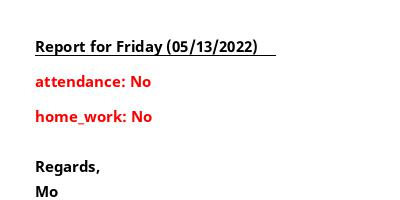
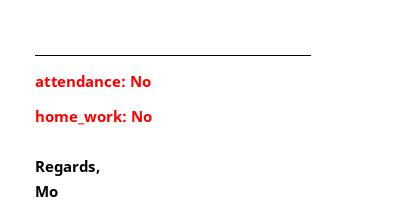
add firt name to reports2

Changed region(s): [[0.09, 0.18, 0.66, 0.27], [0.69, 0.27, 0.78, 0.3]]

diff --git a/app/views.py b/app/views.py
@@ -393,9 +393,13 @@ def view_memos():
                 for key,content in all_students_reports_to_send.items():
                     if content.get('send_report','') == 'send':
                         memos,not_memos = {},{}
+                        student = dict(AppDBUtil.getStudentsByEmails(students_emails=[key])[0])
+
                         report_date = content.get('report_date','')
                         report_day = datetime.datetime.strptime(report_date, "%m/%d/%Y").strftime('%A')
-                        memos.update({'title':"Report for {} ({})".format(report_day, report_date)})
+
+                        memos.update({'title': "{}'s Report for {} ({})".format(student['student_first_name'],report_day, report_date)})
+                        not_memos.update({'title': "{}'s Report for {} ({})".format(student['student_first_name'], report_day, report_date)})
                         for k,v in content.items():
                             if k.startswith('memo_1'):
                                 memo_key = "Topics Covered"
@@ -408,7 +412,7 @@ def view_memos():
                                 memos.update({memo_key:SendMessagesToClients.cleanMessage(v)})
                             else:
                                 not_memos.update({k:SendMessagesToClients.cleanMessage(v)})
-                        student = dict(AppDBUtil.getStudentsByEmails(students_emails=[key])[0])
+
                         to_numbers = [number for number in [student['parent_1_phone_number'],student['parent_2_phone_number'],student['student_phone_number']] if number != '']
                         SendMessagesToClients.sendSMS(to_numbers=to_numbers,message_as_text=memos,message_as_image=not_memos)
                         flash("Report successfully sent from admin page.")
